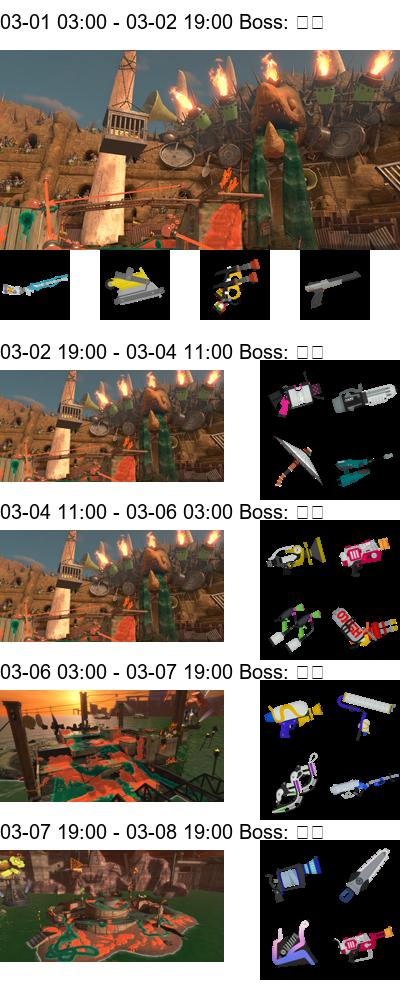
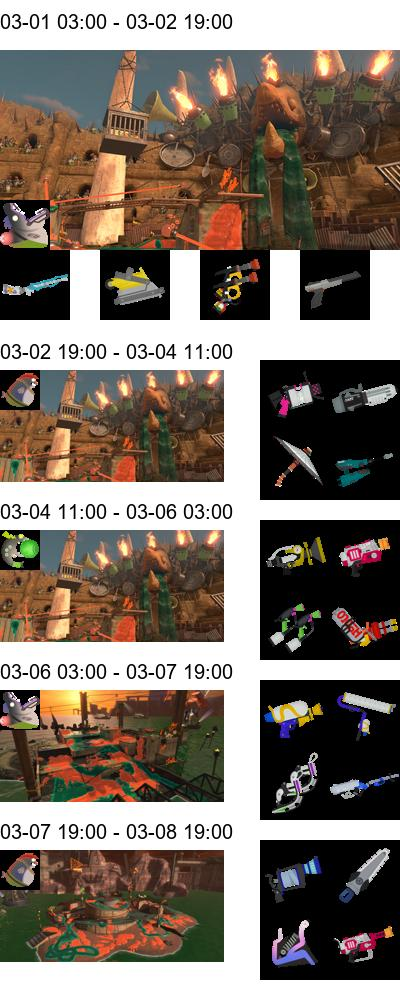
add boss to the coop display

diff --git a/splat/renderer.py b/splat/renderer.py
@@ -147,10 +147,10 @@ def render_coop(li):
     for idx, item in enumerate(li):
         start = item['start']
         end = item['end']
-        boss = item['name_cn']
+        boss = item['name_en']
         url = item['img']
-        weapons = item['weapons']
         weapons_name = item['weapons_name']
+        remain = item['remain']
         # Send a GET request to the URL
         response = requests.get(url)
         
@@ -176,10 +176,17 @@ def render_coop(li):
                 
                 # Specify text position
                 text_position = (0, 10)
-                txt = start + " - " + end + " Boss: " + boss
-
+                txt = start + " - " + end 
                 # Add text to the image
                 tmp.text(text_position, txt, fill="black", font=font)
+
+                # Add Boss
+                position = (0,y-170)
+                link = "./splat/images/bosses/"+boss+".png"
+                boss_img = Image.open(link)
+                size = (50,50)
+                boss_img = boss_img.resize(size)
+                re.paste(boss_img,position)
 
                 # Add weapons for main stage
                 _x = 100
@@ -206,10 +213,18 @@ def render_coop(li):
 
                 # Specify text position
                 text_position = (0, y-30)
-                txt = start + " - " + end + " Boss: " + boss
+                txt = start + " - " + end
 
                 # Add text to the image
                 tmp.text(text_position, txt, fill="black", font=font)
+
+                # Add Boss
+                position = (0,y)
+                link = "./splat/images/bosses/"+boss+".png"
+                boss_img = Image.open(link)
+                size = (40,40)
+                boss_img = boss_img.resize(size)
+                re.paste(boss_img,position)
 
                 # Add weapons
                 _x = 260

diff --git a/splat/crawler.py b/splat/crawler.py
@@ -151,23 +151,29 @@ def parse_x():
 
 def parse_coop():
     stages = []
-    for item in coop:
+    for idx, item in enumerate(coop):
         # Start time
         start = timezone_conversion(item['startTime'])
         # End time
-        end = timezone_conversion(item['endTime'])
+        end = timezone_conversion(item['endTime']) 
+        # Remaining time
+        if idx ==0:
+            remain = datetime.now() - datetime.strptime(start,'%m-%d %H:%M')
+            # remain = remain.strftime('%m-%d %H:%M')
+        else:
+            remain = 0
+        # English name of the boss
+        boss_en = item['setting']['boss']['name']
         # Chinese name of the boss
         boss_cn = translate_boss(item['setting']['boss']['id'])
         # url of the stage
         img = item['setting']['coopStage']['thumbnailImage']['url']
         # All weapons
-        weapons = []
-        for wp in item['setting']['weapons']:
-            weapons.append(wp['image']['url'])
+
         weapons_name = []
         for wp in item['setting']['weapons']:
             weapons_name.append(wp['name'])
-        tmp = dict({'start':start, 'end': end, 'name_cn':boss_cn,'img':img, 'weapons':weapons, 'weapons_name':weapons_name})
+        tmp = dict({'start':start, 'end': end, 'remain':remain,'name_cn':boss_cn, 'name_en':boss_en,'img':img, 'weapons_name':weapons_name })
         stages.append(tmp)
     return stages
         
